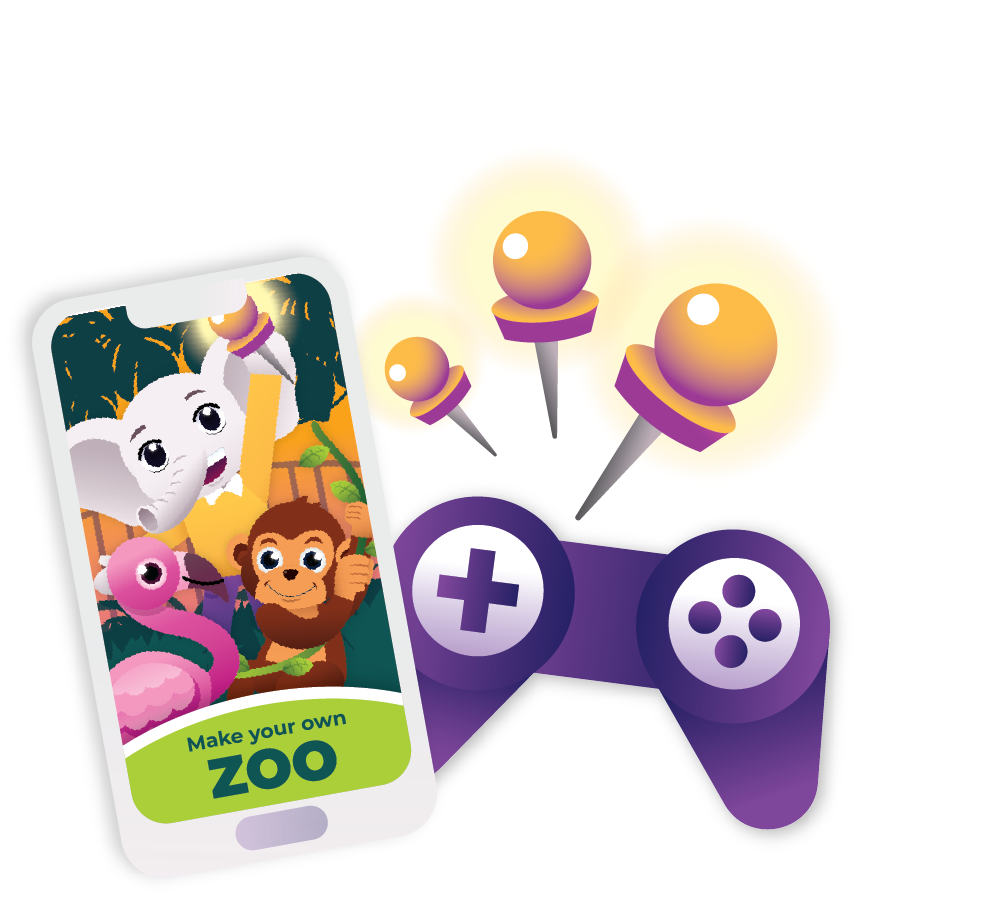
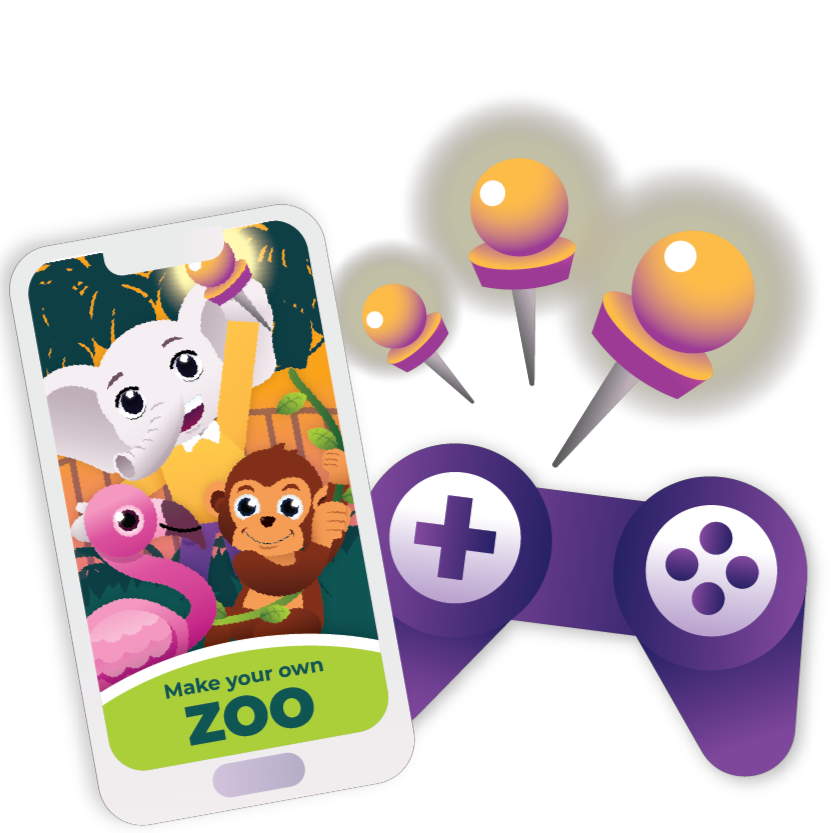
rev3

diff --git a/Merchant Home Page/merchant.html b/Merchant Home Page/merchant.html
@@ -129,26 +129,28 @@
 
     <div class="why-leal-content row">
 
-        <div class="why-leal-item col-lg-4 col-md-6 col-sm-12 col1 text-lg-end text-md-center">
+        <div class="why-leal-item col-lg-4 col-md-6 col-sm-12 col1 text-md-center text-center">
             
-            
+            <div class="why-leal-content-img px-5 mb-4">
               <img src="../asset/image/Loyalty Program.png" class="img-fluid" alt="">
-            
+            </div>            
             <h2>Loyalty Program</h2>
             <p>Menjaga customer untuk terus berlangganan dengan bisnismu</p>
         </div>
 
         <div class="why-leal-item col-lg-4 col-md-6 col-sm-12 col2 text-center">
-            <img src="../asset/image/Gamification.png" class="img-fluid" alt="">
+            <div class="why-leal-content-img px-5 mb-4">
+              <img src="../asset/image/Gamification.png" class="img-fluid" alt="">
+            </div>
             <h2>Gamification</h2>
             <p>Wujudkan pengalaman yang lebih menyenangkan bagi customer pada pembelian sehari-hari</p>
         </div>
 
-        <div class="why-leal-item col-lg-4 offset-lg-0 col-md-6 offset-md-3 col-sm-12 offset-sm-0 col3 text-lg-start text-md-center">
+        <div class="why-leal-item col-lg-4 offset-lg-0 col-md-6 offset-md-3 col-sm-12 offset-sm-0 col3 text-md-center text-center">
           
-            <img src="../asset/image/Tracker & Insights.png" class="img-fluid" alt="">
-            
-          
+            <div class="why-leal-content-img px-5 mb-4">
+              <img src="../asset/image/Tracker & Insights.png" class="img-fluid" alt="">
+            </div>  
             <h2>Tracker & Insights</h2>
             <p>Memberikanmu wawasan untuk lebih mengenal dan meningkatkan pengalaman berbelanja customer</p>
         </div>
@@ -164,7 +166,7 @@
   <section id="your-zoo" class="white-section container-fluid">
     <div class="row">
 
-      <div class="your-zoo-heading col-lg-6 col-sm-12 text-start order-lg-2">
+      <div class="your-zoo-heading col-lg-6 col-sm-12 text-start order-lg-2 ps-4">
         <h1>Ciptakan Petualangan Menyenangkan Bersama Customer-mu</h1>
         <p>LEAL merupakan platform loyalty digital yang terintegrasi sehingga mampu menghadirkan perjalanan menyenangkan bagi customer-mu dengan konsep gamification menarik bersama Timo dan Leana.</p>
       </div>
@@ -173,7 +175,7 @@
         <div class="row">
           <div class="col-md-6 col-sm-12 p-0">
             <!-- <div class="your-zoo-pict"></div> -->
-            <div class="your-zoo-content-img">
+            <div class="your-zoo-content-img your-zoo-content-img-1 ">
               <img src="../asset/image/Star.png" class="" alt="">
             </div>
             
@@ -182,7 +184,7 @@
           </div>
           <div class="col-md-6 col-sm-12">
             <!-- <div class="your-zoo-pict"></div> -->
-            <div class="your-zoo-content-img">
+            <div class="your-zoo-content-img img your-zoo-content-img-2">
               <img src="../asset/image/Pin.png" class="" alt="">
             </div>
         

diff --git a/Merchant Home Page/merchant.css b/Merchant Home Page/merchant.css
@@ -378,7 +378,10 @@ width: 5rem;
     padding: 0 1.5%;
     /* padding-left: ;
     padding-right: ; */
+}
 
+#why-leal .why-leal-content-img{
+    
 }
 
 
@@ -397,7 +400,7 @@ width: 5rem;
 
 .your-zoo-pict {
     width: 100%;
-    height: 300px;
+    height: 10rem;
     background-color: #f3f3f3;
     border-radius: 2.5rem;
 }
@@ -408,14 +411,21 @@ width: 5rem;
 }
 
 #your-zoo .your-zoo-content .your-zoo-content-img{
-    height: 500px;
+    height: 22.5rem;
     position: relative;
 }
 
-#your-zoo .your-zoo-content .your-zoo-content-img img{
+#your-zoo .your-zoo-content .your-zoo-content-img-1 img{
     width: 100%;
     position: absolute;
-    bottom: 0;
+    top: 200;
+    left: 0;
+}
+
+#your-zoo .your-zoo-content .your-zoo-content-img-2 img{
+    width: 100%;
+    position: absolute;
+    top: 0;
     left: 0;
 }
 

diff --git a/User Home Page/index.html b/User Home Page/index.html
@@ -86,10 +86,6 @@
   <div data-bs-spy="scroll" data-bs-target="#navbar-example2" data-bs-root-margin="0px 0px -40%" data-bs-smooth-scroll="true" class="scrollspy-example bg-light rounded-2" tabindex="0">
 
   
-
-
-      
-      
       <!-- TITTLE -->
 
   <section id="title" class=" container-fluid title-area">
